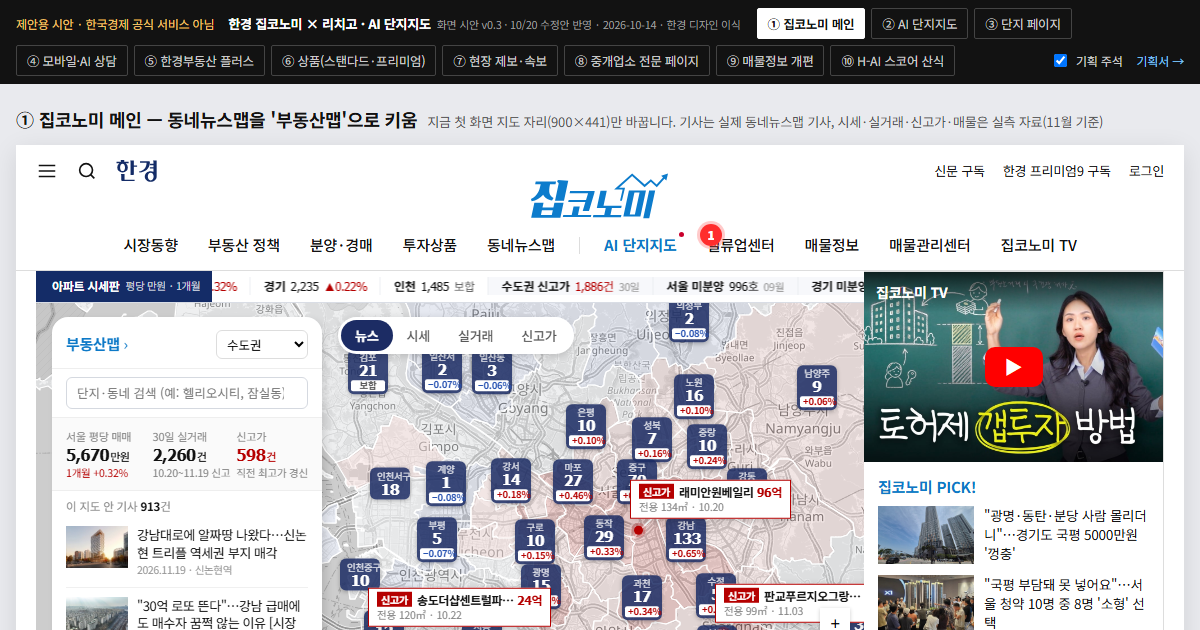
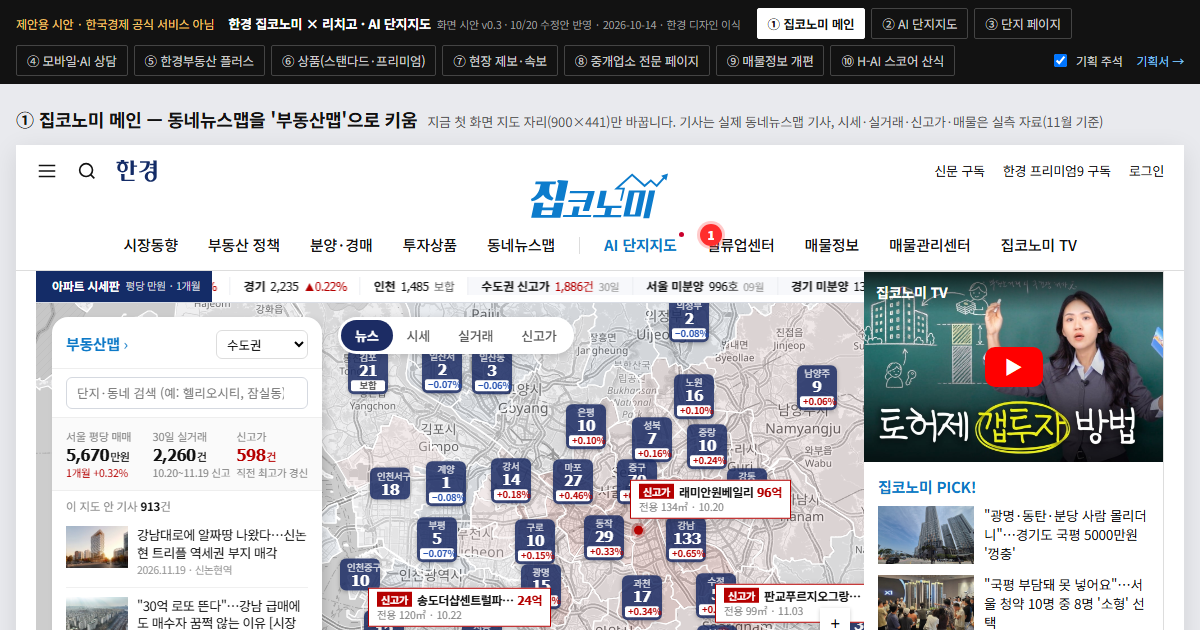
데모 갱신 (원본 6613950, 2026-11-20 17:01)

Changed region(s): [[0.185, 0.4222, 0.74, 0.4825], [0.4933, 0.9952, 0.5242, 1.0]]

diff --git a/map1.js b/map1.js
@@ -128,7 +128,7 @@ window.PMAP = (function () {
     return divColor(v, metric);
   }
   function style(r) {
-    const z = map ? map.getZoom() : 10, dim = z >= 14 ? .18 : layer === 'news' ? .42 : layer === 'high' ? .58 : .64;
+    const z = map ? map.getZoom() : 10, dim = z >= 14 ? .08 : layer === 'news' ? .28 : layer === 'high' ? .55 : .6;
     const sel = view.k === 'region' && view.code === r.code;
     return {color: sel ? '#121212' : '#fff', weight: sel ? 2.4 : r.lv === 'sgg' ? 1.2 : .7, fillColor: fill(r), fillOpacity: dim, opacity: 1};
   }

diff --git a/map1.css b/map1.css
@@ -152,7 +152,7 @@
 .pm-vol{margin-top:10px}
 .pm-vol .h{display:flex;justify-content:space-between;font-size:12px;font-weight:700;margin-bottom:2px}
 .pm-vol small{font-weight:400;color:#999;font-size:10.5px}
-.pm .hk-naver.gray{filter:grayscale(.8) brightness(1.04) contrast(.92)}
+.pm .hk-naver.gray{filter:none}
 .pm-zoom{bottom:44px}
 /* ── 검색 자동완성 ── */
 .pm-search{position:relative;padding:8px 14px;border-bottom:1px solid #eee}
